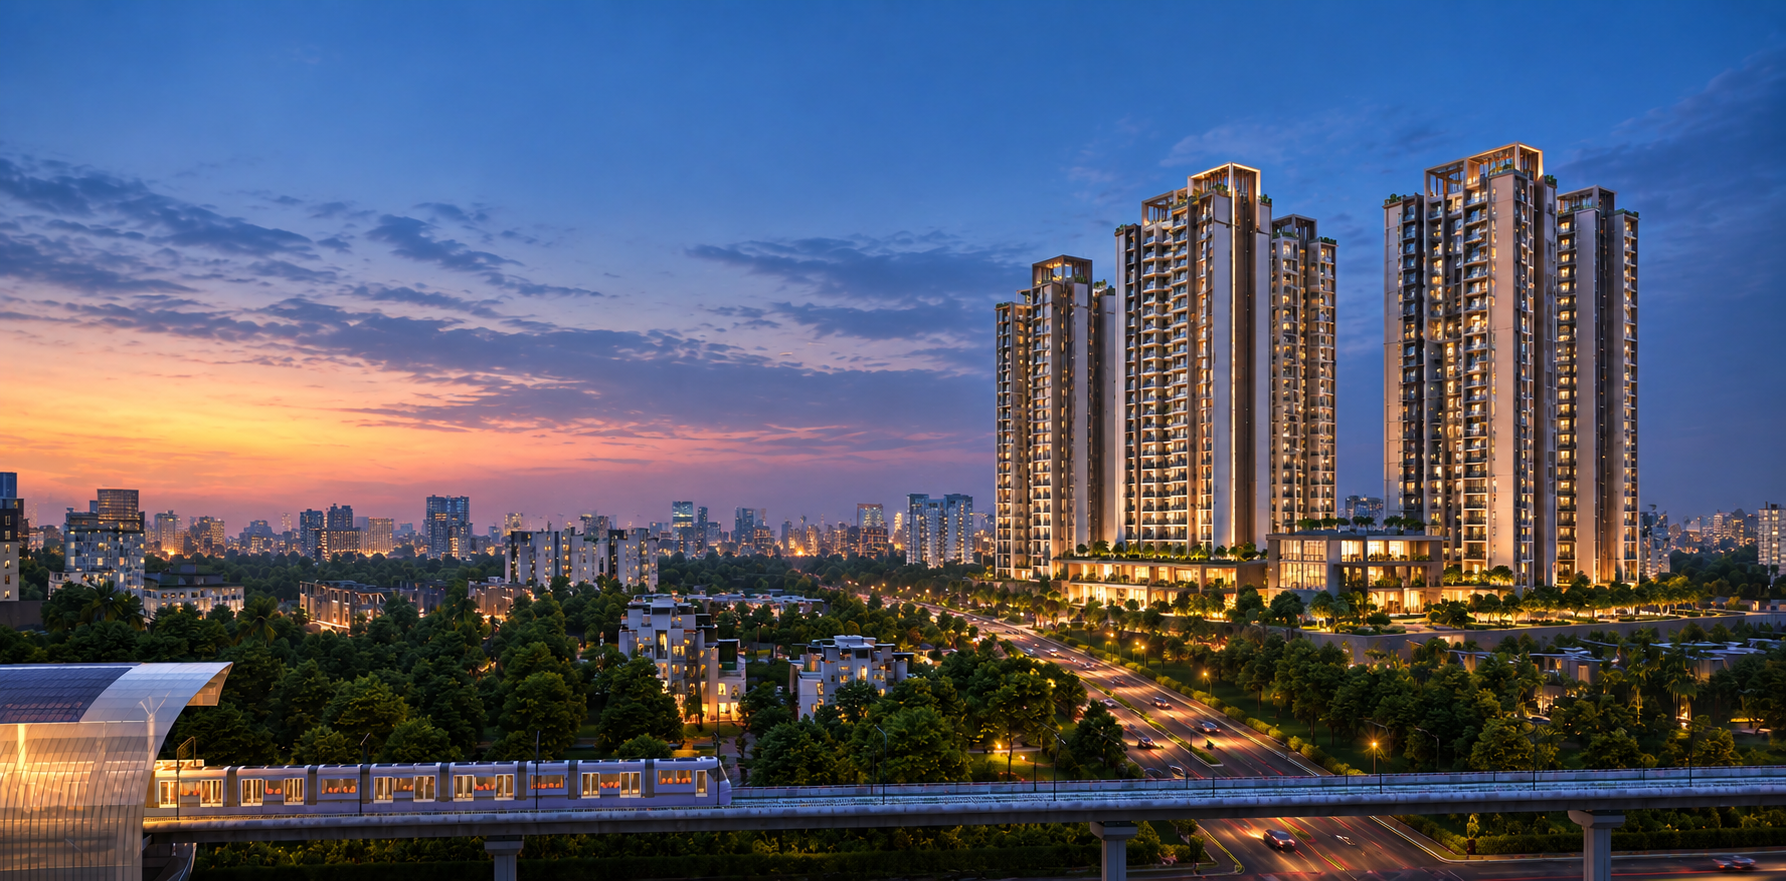
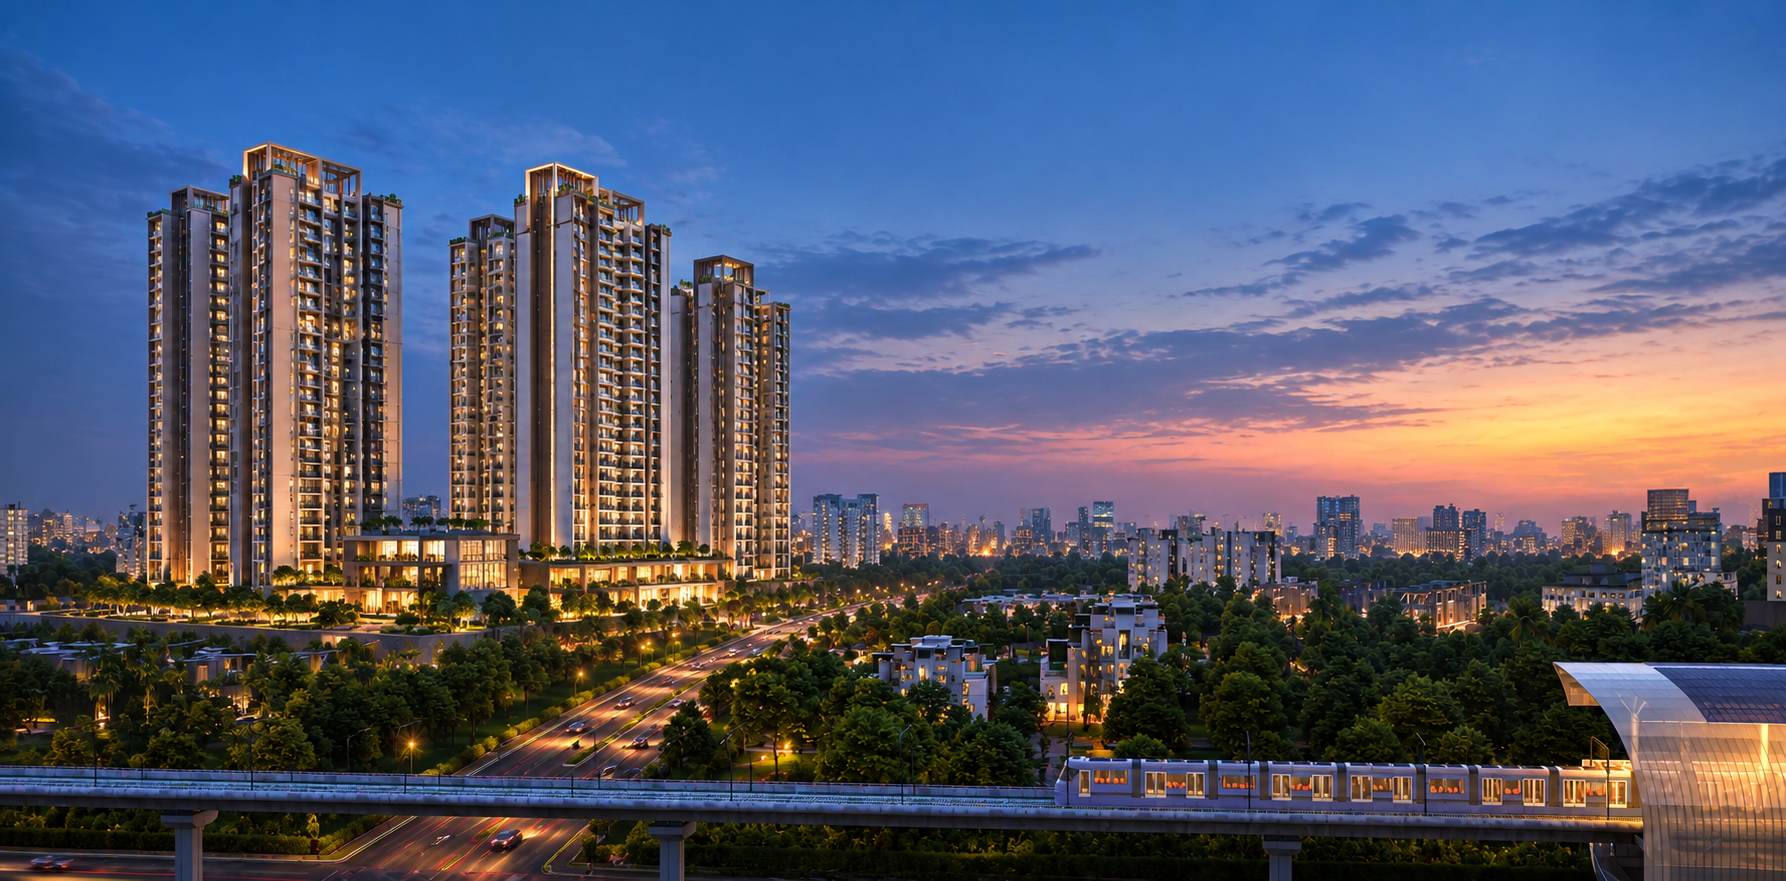
hero fixed

diff --git a/styles.css b/styles.css
@@ -727,16 +727,24 @@ header.site {
 /* ==========================================================================
    CATEGORY CARDS ("What We Offer") — 60% WHITE / LIME ACCENT
    ========================================================================== */
+.cat-grid {
+  display: grid;
+  grid-template-columns: repeat(3, 1fr);
+  gap: 24px;
+}
+
 .cat-card {
   background: #ffffff;
   border: 1px solid var(--line);
-  border-radius: var(--radius);
-  padding: 38px 24px;
+  border-radius: 20px;
+  padding: 16px 16px 22px;
   text-align: center;
   transition: all 0.3s cubic-bezier(0.16, 1, 0.3, 1);
   position: relative;
   overflow: hidden;
   box-shadow: var(--shadow-sm);
+  display: flex;
+  flex-direction: column;
 }
 
 .cat-card::before {
@@ -750,16 +758,52 @@ header.site {
   transform: scaleX(0);
   transition: transform 0.3s ease;
   transform-origin: left;
+  z-index: 2;
 }
 
 .cat-card:hover {
   transform: translateY(-6px);
   box-shadow: var(--shadow);
-  border-color: var(--violet-border);
+  border-color: rgba(125, 57, 235, 0.25);
 }
 
 .cat-card:hover::before {
   transform: scaleX(1);
+}
+
+.cat-card .cat-img {
+  width: 100%;
+  height: 185px;
+  border-radius: 14px;
+  overflow: hidden;
+  margin-bottom: 16px;
+  background: #f1f5f9;
+}
+
+.cat-card .cat-img img {
+  width: 100%;
+  height: 100%;
+  object-fit: cover;
+  display: block;
+  transition: transform 0.45s cubic-bezier(0.16, 1, 0.3, 1);
+}
+
+.cat-card:hover .cat-img img {
+  transform: scale(1.08);
+}
+
+.cat-card h3 {
+  font-size: 20px;
+  margin-bottom: 6px;
+  color: var(--ink);
+  font-weight: 700;
+  letter-spacing: -0.02em;
+}
+
+.cat-card p {
+  color: var(--muted);
+  font-size: 14px;
+  line-height: 1.45;
 }
 
 .cat-icon {
@@ -774,25 +818,6 @@ header.site {
   margin: 0 auto 20px;
   font-size: 28px;
   transition: transform 0.3s ease, background 0.3s ease;
-}
-
-.cat-card:hover .cat-icon {
-  transform: scale(1.1);
-  background: #ecfccb;
-  box-shadow: 0 0 16px var(--lime-glow);
-}
-
-.cat-card h3 {
-  font-size: 21px;
-  margin-bottom: 8px;
-  color: var(--ink);
-  font-weight: 700;
-}
-
-.cat-card p {
-  color: var(--muted);
-  font-size: 14.5px;
-  line-height: 1.5;
 }
 
 /* ==========================================================================
@@ -2503,6 +2528,11 @@ footer.site a:hover {
   .grid-4 {
     grid-template-columns: repeat(2, 1fr);
   }
+
+  .cat-grid {
+    grid-template-columns: repeat(2, 1fr);
+    gap: 18px;
+  }
   
   .about-split,
   .contact-grid,
@@ -2628,6 +2658,34 @@ footer.site a:hover {
     grid-template-columns: 1fr;
   }
 
+  /* What We Offer: Strictly 2 cards in one row on mobile screens */
+  .cat-grid {
+    grid-template-columns: repeat(2, 1fr) !important;
+    gap: 12px !important;
+  }
+
+  .cat-card {
+    padding: 10px 10px 14px !important;
+    border-radius: 16px !important;
+  }
+
+  .cat-card .cat-img {
+    height: 115px !important;
+    border-radius: 10px !important;
+    margin-bottom: 8px !important;
+  }
+
+  .cat-card h3 {
+    font-size: 15px !important;
+    margin-bottom: 3px !important;
+    line-height: 1.25 !important;
+  }
+
+  .cat-card p {
+    font-size: 11.5px !important;
+    line-height: 1.35 !important;
+  }
+
   section {
     padding: 60px 0;
   }
@@ -2675,5 +2733,23 @@ footer.site a:hover {
 
   .cta-band h2 {
     font-size: 30px;
+  }
+}
+
+@media (max-width: 400px) {
+  .cat-grid {
+    gap: 8px !important;
+  }
+  .cat-card {
+    padding: 8px 8px 12px !important;
+  }
+  .cat-card .cat-img {
+    height: 96px !important;
+  }
+  .cat-card h3 {
+    font-size: 13.5px !important;
+  }
+  .cat-card p {
+    font-size: 11px !important;
   }
 }

diff --git a/index.html b/index.html
@@ -71,39 +71,48 @@
       <h2 class="section-title">What We Offer</h2>
       <p class="section-sub">Verified, approved real estate across Telangana — from managed farmland to ready homes near
         AIIMS.</p>
-      <div class="grid grid-4">
+      <div class="grid cat-grid">
         <div class="cat-card">
-          <div class="cat-icon">🌾</div>
+          <div class="cat-img">
+            <img src="images/open plots.png" alt="Open Plots" loading="lazy">
+          </div>
           <h3>Open Plots</h3>
-          <p>Residential & Investment Plots
-          </p>
+          <p>Residential &amp; Investment Plots</p>
         </div>
         <div class="cat-card">
-          <div class="cat-icon">📐</div>
+          <div class="cat-img">
+            <img src="images/farm lands.png" alt="Farm Lands" loading="lazy">
+          </div>
           <h3>Farm Lands</h3>
           <p>Nature-Focused Farm Properties</p>
         </div>
         <div class="cat-card">
-          <div class="cat-icon">🏡</div>
+          <div class="cat-img">
+            <img src="images/villas.png" alt="Villas" loading="lazy">
+          </div>
           <h3>Villas</h3>
           <p>Premium Independent Villas</p>
         </div>
         <div class="cat-card">
-          <div class="cat-icon">📈</div>
+          <div class="cat-img">
+            <img src="images/apartments.png" alt="Apartments" loading="lazy">
+          </div>
           <h3>Apartments</h3>
           <p>Modern Urban Living</p>
         </div>
         <div class="cat-card">
-          <div class="cat-icon">📈</div>
-          <h3>Farmhouses
-          </h3>
-          <p>Weekend & Second Homes
-          </p>
+          <div class="cat-img">
+            <img src="images/farmhouses.png" alt="Farmhouses" loading="lazy">
+          </div>
+          <h3>Farmhouses</h3>
+          <p>Weekend &amp; Second Homes</p>
         </div>
         <div class="cat-card">
-          <div class="cat-icon">📈</div>
-          <h3>Resorts & Retreats</h3>
-          <p>Lifestyle & Leisure Properties</p>
+          <div class="cat-img">
+            <img src="images/resorts.png" alt="Resorts &amp; Retreats" loading="lazy">
+          </div>
+          <h3>Resorts &amp; Retreats</h3>
+          <p>Lifestyle &amp; Leisure Properties</p>
         </div>
       </div>
     </div>
